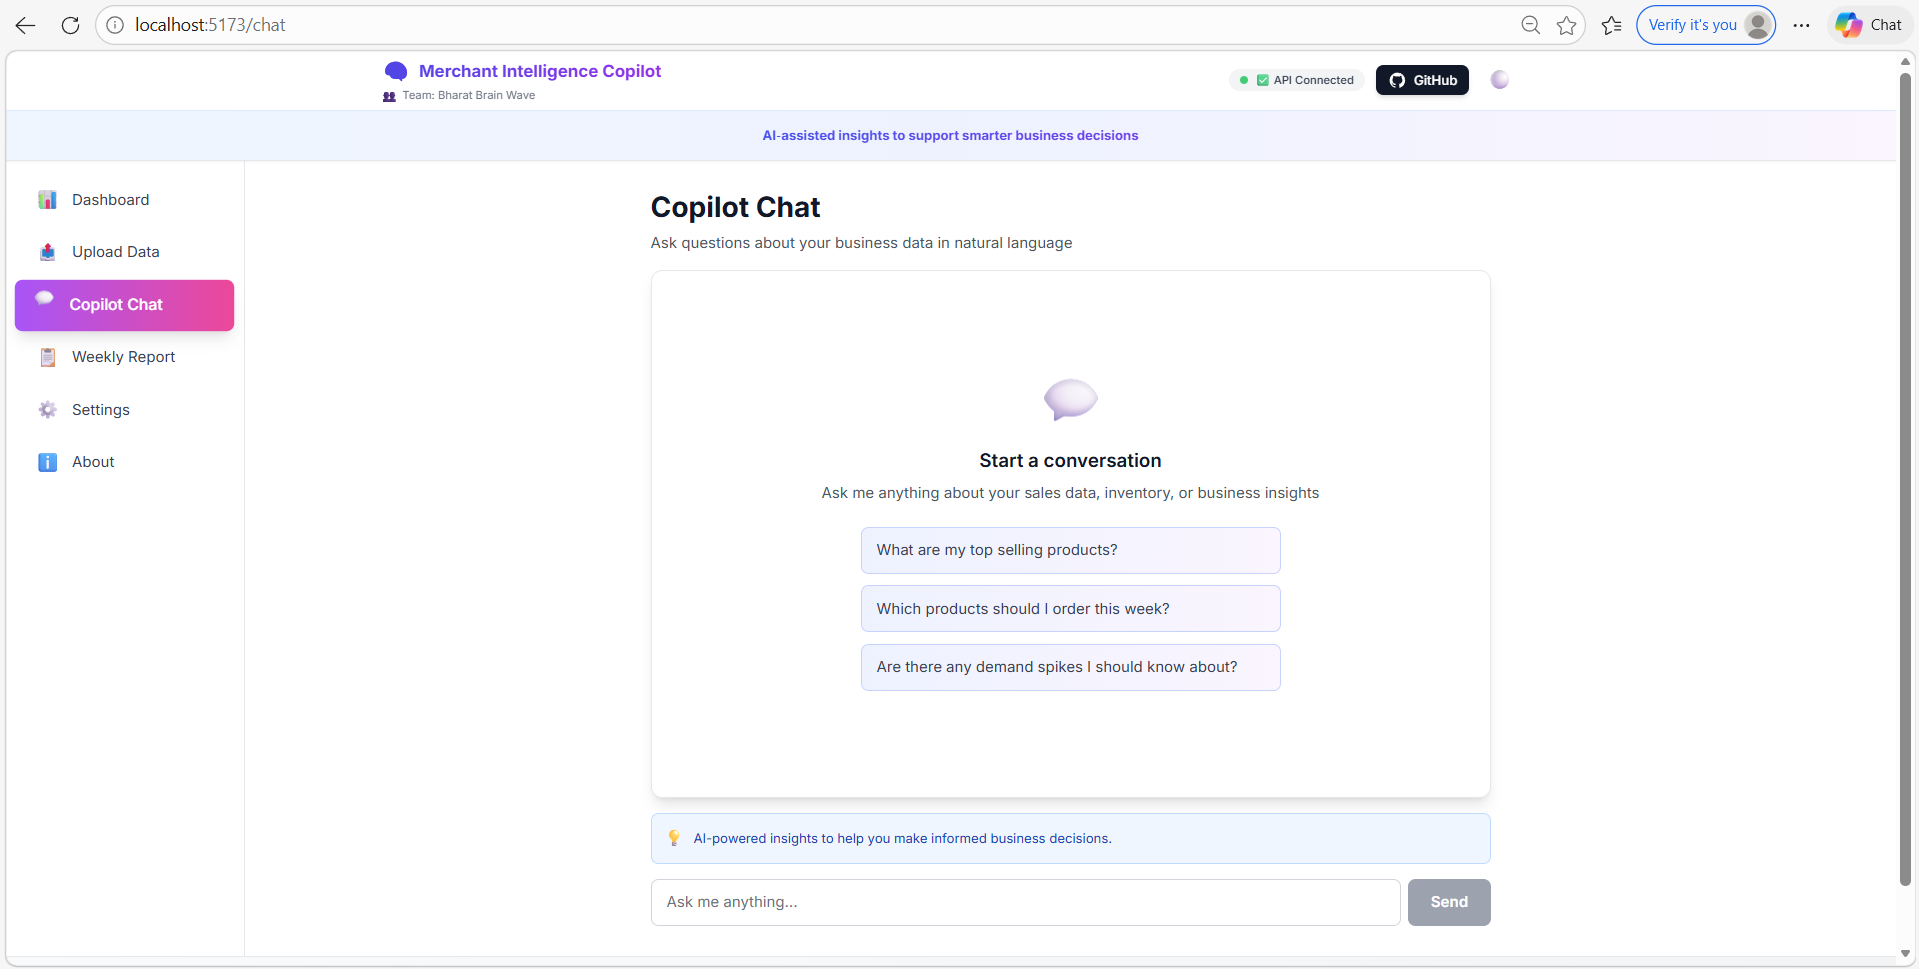
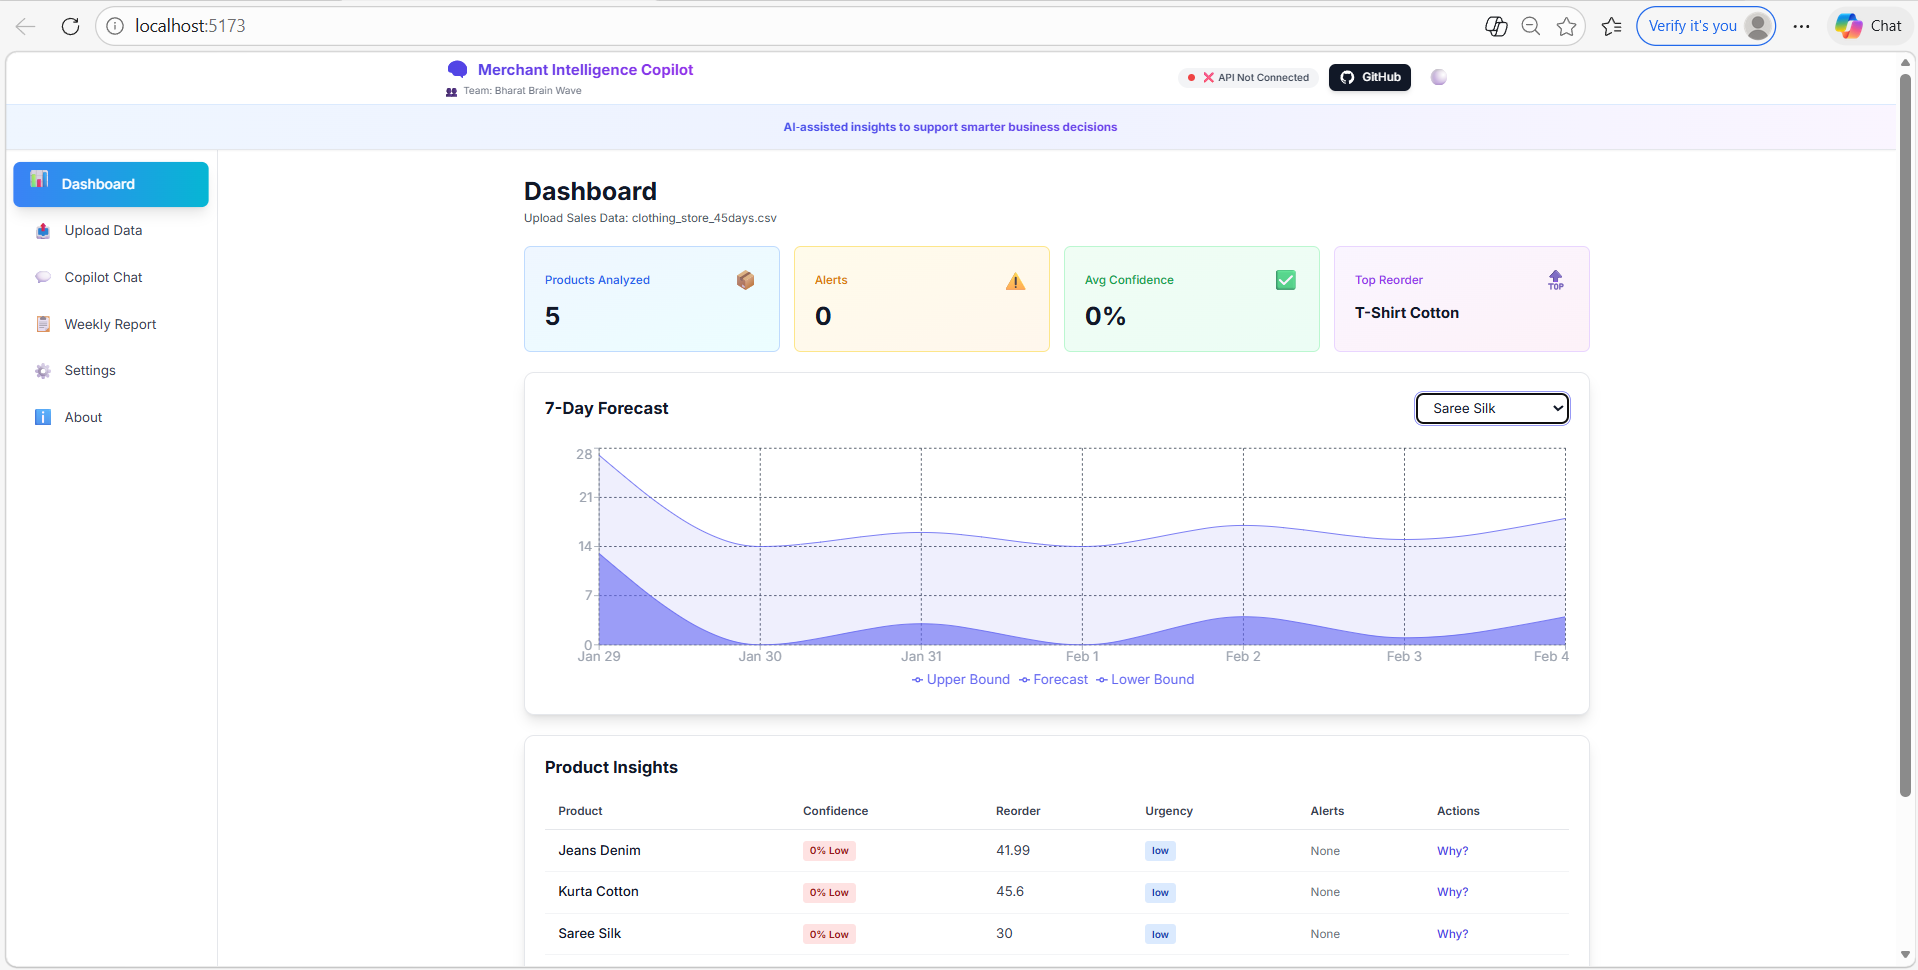
llm powered response updated

diff --git a/merchant_intelligence-copilot-files/backend/src/common/bedrock_nova.py b/merchant_intelligence-copilot-files/backend/src/common/bedrock_nova.py
@@ -1,12 +1,12 @@
 import json, boto3, os
-from .config import AWS_REGION, TEMPERATURE, TOP_P, MAX_TOKENS
+from .config import TEMPERATURE, TOP_P, MAX_TOKENS
 
-# Initialize Bedrock client with credentials from environment
+# Initialize Bedrock client
+# Nova models are available in us-east-1, use that region for Bedrock
+# Lambda can be in any region, IAM role credentials are used automatically
 br = boto3.client(
     "bedrock-runtime",
-    region_name=AWS_REGION,
-    aws_access_key_id=os.getenv("AWS_ACCESS_KEY_ID"),
-    aws_secret_access_key=os.getenv("AWS_SECRET_ACCESS_KEY")
+    region_name="us-east-1"  # Use us-east-1 for Bedrock Nova models
 )
 
 def nova_converse(model_id: str, system: str, user: str):
